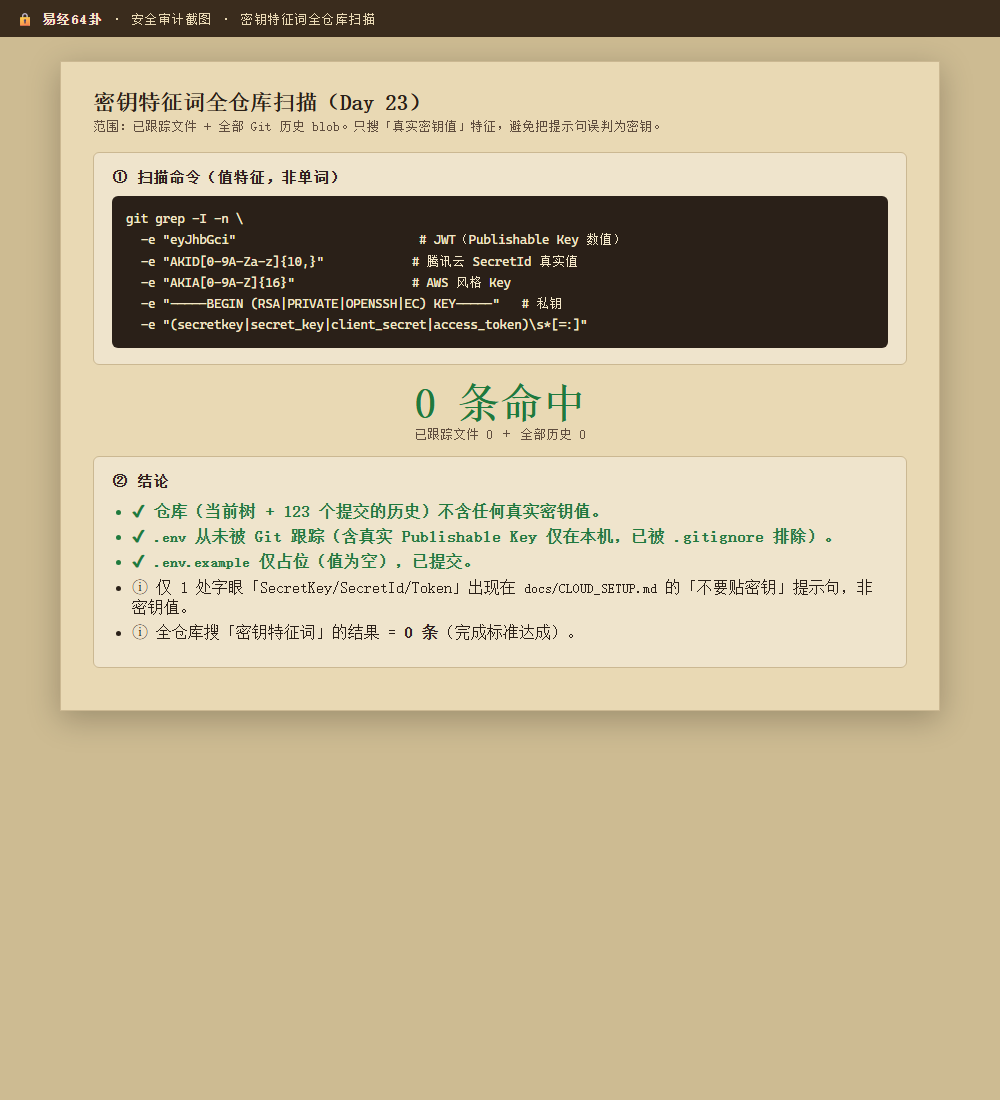
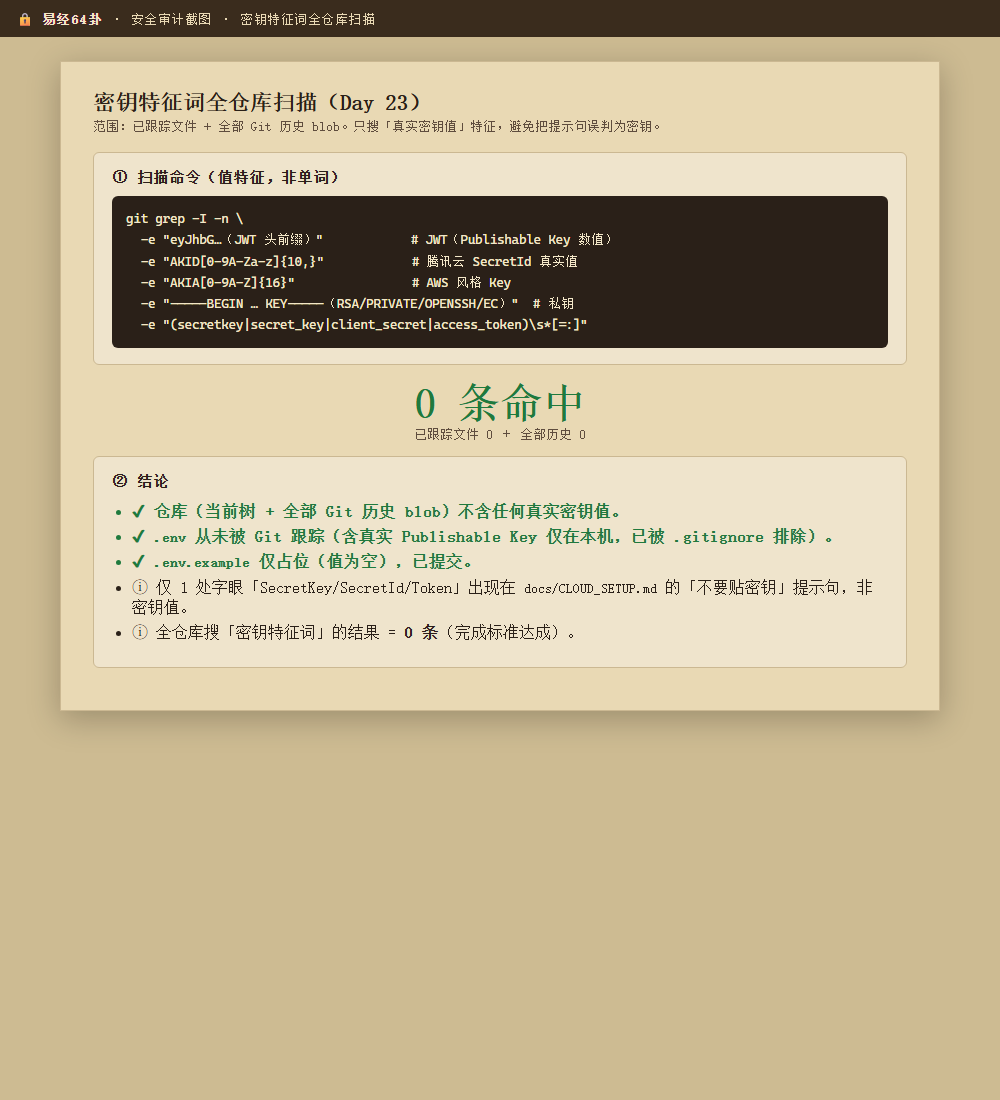
Day 23｜审计复核：中和清单自匹配串、刷新 0 命中截图
改了什么：docs/security-checklist.md 的扫描命令示例改为不嵌入可自匹配的完整密钥特征串（eyJhbG… / -----BEGIN … KEY-----），避免全树 git grep 误命中清单自身；同步更新审计源页与过期提交数。
加了什么：刷新 docs/img/audit-secret.png 与 audit-errors.png（密钥扫描 0 命中、三类中文提示对照）；未改任何源码与业务逻辑。

Changed region(s): [[0.279, 0.4327, 0.62, 0.4945], [0.248, 0.2164, 0.589, 0.2782], [0.217, 0.2164, 0.248, 0.2473]]

diff --git a/docs/security-checklist.md b/docs/security-checklist.md
@@ -11,10 +11,10 @@
 ```bash
 cd "E:/Workbuddy文件夹"
 git grep -I -n \
-  -e "eyJhbGci" \
+  -e "eyJhbG（JWT 头前缀，如 eyJhbG… 的完整形式）" \
   -e "AKID[0-9A-Za-z]{10,}" \
   -e "AKIA[0-9A-Z]{16}" \
-  -e "-----BEGIN (RSA|PRIVATE|OPENSSH|EC) KEY-----" \
+  -e "-----BEGIN … KEY-----（含 RSA/PRIVATE/OPENSSH/EC 等）" \
   -e "(secretkey|secret_key|client_secret|access_token)\s*[=:]"
 ```
 
@@ -44,9 +44,9 @@ grep -E "^\.env|secret|credential|\.key|\.pem" .gitignore
 
 ```bash
 git grep -I -n \
-  -e "eyJhbGci" \
+  -e "eyJhbG（JWT 头前缀，如 eyJhbG… 的完整形式）" \
   -e "AKID[0-9A-Za-z]{10,}" \
-  -e "-----BEGIN (RSA|PRIVATE|OPENSSH|EC) KEY-----" \
+  -e "-----BEGIN … KEY-----（含 RSA/PRIVATE/OPENSSH/EC 等）" \
   $(git rev-list --all)
 ```
 
